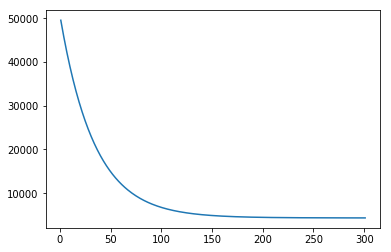
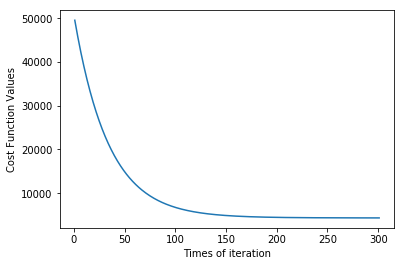
Add new algorithm

diff --git a/first_chapter_Gradient_descent.py b/first_chapter_Gradient_descent.py
@@ -1,0 +1,66 @@
+# -*- coding: utf-8 -*-
+"""
+Created on Mon Jan  7 21:36:29 2019
+
+@author: zhang
+First Chapter: Linear Regression with graident descent and normal equation
+
+"""
+import numpy as np
+import matplotlib.pyplot as plt
+###
+## X is a n*m matrix, m is trainning samples. n is attribute for very samples, the first attribute is 1 for theta zero
+## Y is a 1*m  vector as m trainning resuslt
+## theta is a n*1 vector
+## Calculate the cost Function
+def computeCost(X,Y,theta):
+    m = len(Y)
+    J = 0
+    dev = np.transpose(theta) @ X - Y
+    J = dev @ np.transpose(dev)/(2*m)
+    print(J)
+    return J
+
+
+## gradientDescent  Method
+def gradientDescent(X,Y,theta,alpha,num_iters):
+    m = len(Y)
+#    n = len(theta)
+    J = []
+    i = 0
+    counter_iters =[]
+    ## iteration algorithm
+    while i <= num_iters:
+        Dev = np.transpose(theta) @ X - Y ## Dev is a 1*m vector
+        print(Dev)
+        J.append( computeCost(X,Y,theta))
+        new_theta = theta - (X @ np.transpose(Dev))*alpha/m
+        theta = new_theta
+        print(new_theta)
+        i += 1
+        counter_iters.append(i)
+        
+    return J, theta, counter_iters
+
+## Main Function
+
+X = np.array([[1,1,1,1],[2014/2014,1416/2014,1534/2014,852/2014],[5,3,3,2],[1,2,2,1],[45,40,30,36]])
+##X = np.array([[1,1,1,1],[3,2,5,4],[5,3,6,7],[12,17,21,23]])
+##Y = np.array([3,5,7,9])
+Y = np.array([460,232,315,178])
+m = len(Y)
+n = len(X)
+theta = np.zeros(n).reshape(n,1)
+alpha = 0.00001
+num_iters = 300
+J_collect= []
+J_collect,final_theta,counter_iters = gradientDescent(X,Y,theta,alpha,num_iters) 
+Cost_Data = []
+plt.figure('model')
+for each in J_collect:
+    Cost_Data.append(each[0,0])
+
+plt.plot(counter_iters,Cost_Data)
+plt.xlabel('Times of iteration')
+plt.ylabel('Cost Function Values')
+plt.show()

diff --git a/Linear_Regression_withNormal_Equation.py b/Linear_Regression_withNormal_Equation.py
@@ -1,0 +1,51 @@
+# -*- coding: utf-8 -*-
+"""
+Created on Wed Jan  9 18:12:29 2019
+
+@author: zhang
+first Chapter for Linear Regression with Normal equation
+"""
+import numpy as np
+#import matplotlib.pyplot as plt
+def computeCost(X,Y,theta):
+    m = len(Y)
+    J = 0
+    dev = np.transpose(theta) @ X - Y
+    J = dev @ np.transpose(dev)/(2*m)
+    print(J)
+    return J
+
+def Normalequation(X,Y):
+    X_prime = np.transpose(X)
+    temp = X_prime @ X
+    temp_inv = np.linalg.inv(temp)
+    theta = temp_inv @ X_prime @ Y
+    print(theta)
+    return theta
+
+X = np.array([[1,1,1,1],[2014/2014,1416/2014,1534/2014,852/2014],[5,3,3,2],[1,2,2,1],[45,40,30,36]])
+X_prime= np.transpose(X)
+##X = np.array([[1,1,1,1],[3,2,5,4],[5,3,6,7],[12,17,21,23]])
+##Y = np.array([3,5,7,9])
+Y = np.array([460,232,315,178])
+Y_prime = np.transpose(Y)
+m = len(Y)
+n = len(X)
+theta = np.zeros(n).reshape(n,1)
+#alpha = 0.00001
+#num_iters = 300
+#J_collect= []
+#J_collect,final_theta,counter_iters = gradientDescent(X,Y,theta,alpha,num_iters) 
+Cost_Func_init = computeCost(X,Y,theta)
+print(Cost_Func_init)
+theta_final = Normalequation(X_prime,Y_prime)
+Cost_Func_final = computeCost(X,Y,theta_final)
+print(Cost_Func_final)
+#plt.figure('model')
+#for each in J_collect:
+#    Cost_Data.append(each[0,0])
+
+#plt.plot(counter_iters,Cost_Data)
+#plt.xlabel('Times of iteration')
+#plt.ylabel('Cost Function Values')
+#plt.show()
